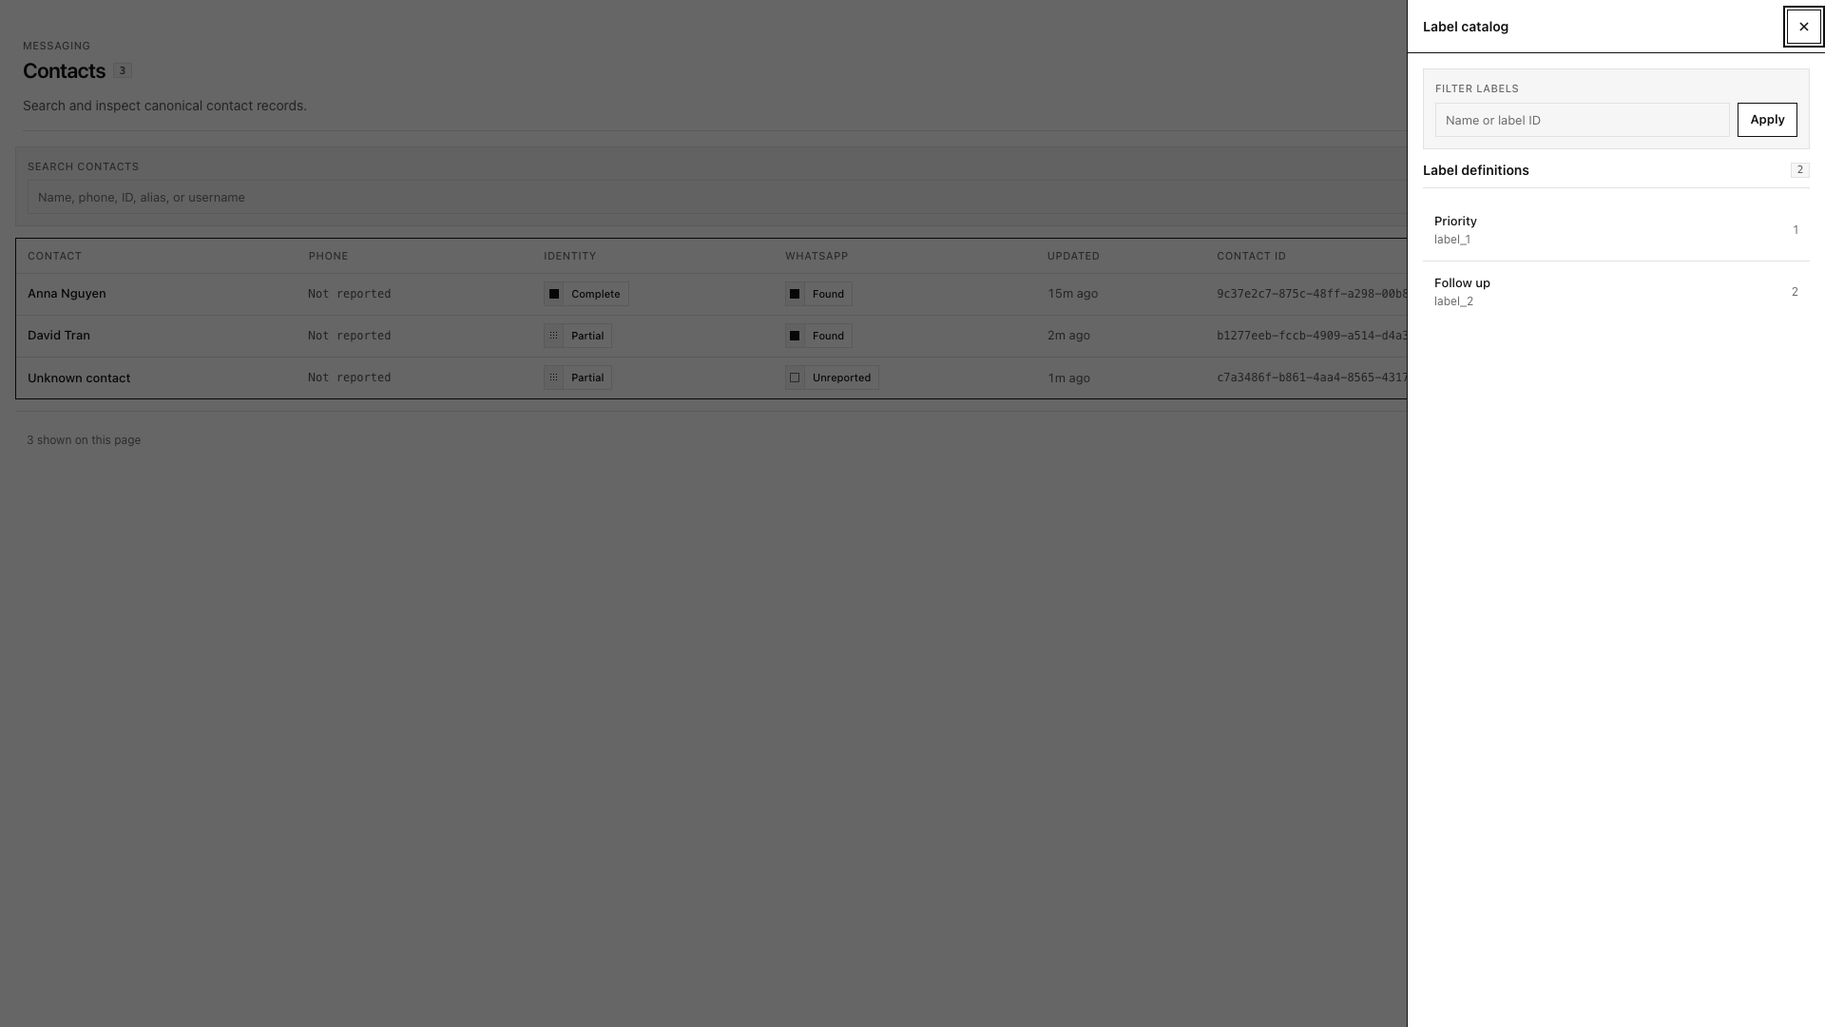
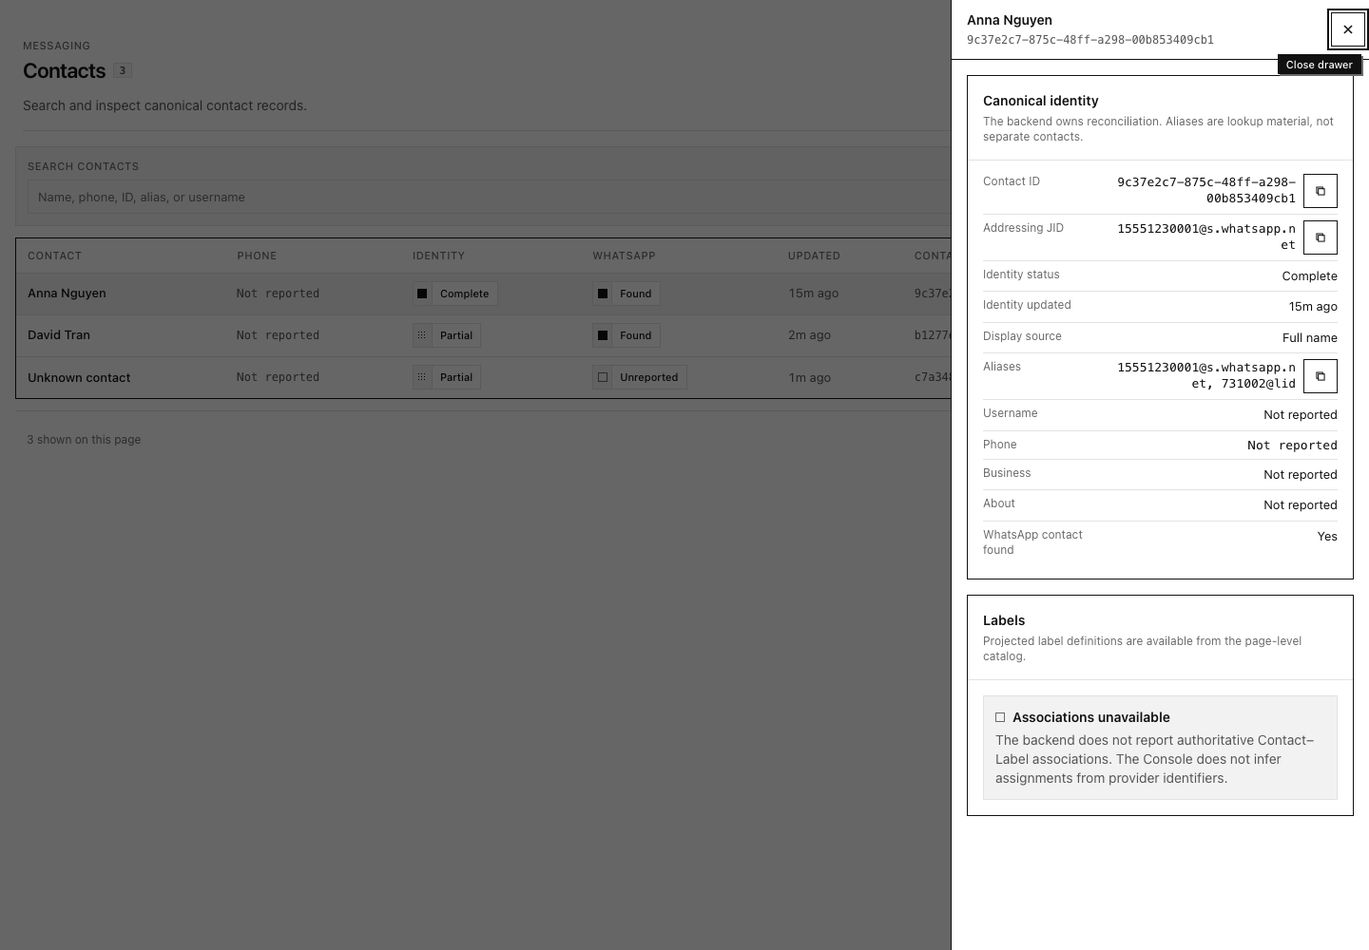
fix: normalize Contacts drawer behavior

diff --git a/src/features/directory/DirectoryPage.tsx b/src/features/directory/DirectoryPage.tsx
@@ -9,7 +9,7 @@ import { CountBadge, CursorPagination, Drawer, Field, FilterToolbar, IconButton,
 import { DirectoryDetails } from './Details';
 import { ContactTable, LabelList } from './DirectoryView';
 import { useContact, useContacts, useLabel, useLabels } from './hooks';
-import { contactsRouteState, updateContactsParams } from './route-state';
+import { contactRegistryLocation, contactsRouteState, labelCatalogLocation, updateContactsParams } from './route-state';
 
 function BlockedPage({ title, detail }: { title: string; detail: string }) {
   return <div className="grid gap-6 p-6 max-sm:p-4"><PageHeader eyebrow="Messaging" title="Contacts" description="Inspect canonical contacts and the projected label catalog." /><StateNotice kind="empty" title={title} detail={detail} /></div>;
@@ -23,6 +23,7 @@ export function ContactsPage() {
   const [searchParams, setSearchParams] = useSearchParams();
   const route = contactsRouteState(searchParams);
   const labelsOpen = route.panel === 'labels';
+  const selectedContactId = labelsOpen ? undefined : contactId;
   const [searchDraft, setSearchDraft] = useState(route.search);
   const [labelSearchDraft, setLabelSearchDraft] = useState(route.labelSearch);
   useEffect(() => setSearchDraft(route.search), [route.search]);
@@ -34,7 +35,7 @@ export function ContactsPage() {
   const labelsReady = instanceScope && cap('labels_projection');
   const canonicalIdentity = cap('canonical_contact_identity');
   const contacts = useContacts(route.search, route.cursor, contactsReady, canonicalIdentity);
-  const contact = useContact(contactId, contactsReady, canonicalIdentity);
+  const contact = useContact(selectedContactId, contactsReady, canonicalIdentity);
   const labels = useLabels(labelsOpen && labelsReady);
   const label = useLabel(labelsOpen ? route.labelId : undefined, labelsReady);
   const loadedLabels = labels.data?.resource ?? [];
@@ -53,16 +54,16 @@ export function ContactsPage() {
   const selectedLabelName = label.data?.resource.name ?? (label.data?.resource ? 'Unknown label' : undefined);
   const replaceParams = (next: URLSearchParams) => setSearchParams(next, { replace: true });
   const replaceContactList = (next: URLSearchParams) => navigate(withSearchParams('/contacts', next), { replace: true });
-  const selectContact = (id: string) => navigate(withSearchParams(`/contacts/${encodeURIComponent(id)}`, searchParams));
-  const closeContact = () => navigate(withSearchParams('/contacts', searchParams));
-  const openLabels = () => replaceParams(updateSearchParams(searchParams, { panel: 'labels' }));
-  const closeLabels = () => replaceParams(omitSearchParams(searchParams, ['panel', 'label', 'labelSearch']));
+  const selectContact = (id: string) => navigate(withSearchParams(`/contacts/${encodeURIComponent(id)}`, omitSearchParams(searchParams, ['panel', 'label', 'labelSearch'])));
+  const closeContact = () => navigate(contactRegistryLocation(searchParams));
+  const openLabels = () => navigate(labelCatalogLocation(searchParams), { replace: true });
+  const closeLabels = () => navigate(contactRegistryLocation(searchParams), { replace: true });
   const selectLabel = (id: string) => replaceParams(updateSearchParams(searchParams, { panel: 'labels', label: id }));
   const closeLabel = () => replaceParams(updateSearchParams(searchParams, { label: undefined }));
   const applySearch = () => replaceContactList(updateContactsParams(searchParams, { search: searchDraft.trim() }, ['cursor']));
   const applyLabelSearch = () => replaceParams(updateContactsParams(searchParams, { panel: 'labels', labelSearch: labelSearchDraft.trim(), label: undefined }));
   const refreshContacts = () => { if (contactsReady) void contacts.refetch(); };
-  const refreshContact = () => { if (contactsReady && contactId) void contact.refetch(); };
+  const refreshContact = () => { if (contactsReady && selectedContactId) void contact.refetch(); };
   const refreshPage = () => { refreshContacts(); refreshContact(); };
   const refreshLabels = () => { if (labelsReady) void labels.refetch(); if (labelsReady && route.labelId) void label.refetch(); };
   const contactsRefreshing = contacts.isFetching || contact.isFetching;
@@ -70,10 +71,14 @@ export function ContactsPage() {
 
   useEffect(() => {
     const returnedId = contact.data?.resource.id;
-    if (canonicalIdentity && contactId && returnedId && returnedId !== contactId) {
+    if (canonicalIdentity && selectedContactId && returnedId && returnedId !== selectedContactId) {
       navigate(withSearchParams(`/contacts/${encodeURIComponent(returnedId)}`, searchParams), { replace: true });
     }
-  }, [canonicalIdentity, contact.data?.resource.id, contactId, navigate, searchParams]);
+  }, [canonicalIdentity, contact.data?.resource.id, navigate, searchParams, selectedContactId]);
+
+  useEffect(() => {
+    if (labelsOpen && contactId) navigate(labelCatalogLocation(searchParams), { replace: true });
+  }, [contactId, labelsOpen, navigate, searchParams]);
 
   if (!instanceScope) return <BlockedPage title="Instance credential required" detail="Contacts requires an instance credential. Admin scope cannot read token-scoped projections, and no request was sent." />;
   if (capabilities.isPending) return <BlockedPage title="Discovering capabilities" detail="Discovering instance capabilities before enabling projection reads." />;
@@ -138,10 +143,10 @@ export function ContactsPage() {
         </div>
       </div>
       <Drawer
-        open={labelsOpen || Boolean(contactId)}
+        open={labelsOpen || Boolean(selectedContactId)}
         onClose={labelsOpen ? closeLabels : closeContact}
         title={labelsOpen ? route.labelId ? selectedLabelName ?? 'Label details' : 'Label catalog' : selectedName ?? 'Contact details'}
-        subtitle={labelsOpen ? route.labelId : contactId}
+        subtitle={labelsOpen ? route.labelId : selectedContactId}
       >
         {labelsOpen ? labelCatalog : !contactsSupported || (!contactsReady && !contact.data?.resource) ? <StateNotice kind="empty" title="Contact detail unavailable" detail="The cached directory remains visible, but this Contact cannot be read while contacts_projection is not advertised." /> : <DirectoryDetails contact={contact.data?.resource} meta={contact.data?.meta} error={contact.error} loading={contact.isPending} onRetry={refreshContact} />}
       </Drawer>

diff --git a/src/features/directory/Details.tsx b/src/features/directory/Details.tsx
@@ -9,10 +9,10 @@ export function DirectoryDetails({ contact, label, meta, error, loading, onRetry
   if (loading) return <StateNotice kind="loading" title="Loading details" />;
   if (error && !contact && !label) return <FailureNotice error={error} onRetry={onRetry} />;
   if (contact) return (
-    <div className="grid gap-4 p-4">
+    <div className="grid gap-4">
       {error ? <FailureNotice error={error} stale onRetry={onRetry} /> : null}
       <ProjectionStatus meta={meta} />
-      <Panel headingLevel={2} title={contact.identityStatus === 'legacy' ? 'Normalized identity' : 'Canonical identity'} description={contact.identityStatus === 'legacy' ? 'Compatibility projection fields; canonical reconciliation is not active for this instance.' : 'The backend owns reconciliation. Aliases are lookup material, not separate contacts.'} bodyPadding="compact-top">
+      <Panel headingLevel={3} title={contact.identityStatus === 'legacy' ? 'Normalized identity' : 'Canonical identity'} description={contact.identityStatus === 'legacy' ? 'Compatibility projection fields; canonical reconciliation is not active for this instance.' : 'The backend owns reconciliation. Aliases are lookup material, not separate contacts.'} bodyPadding="compact-top">
         <DescriptionList>
           <DescriptionItem label="Contact ID" mono><CopyValue value={contact.id} label="Contact ID" /></DescriptionItem>
           <DescriptionItem label="Addressing JID" mono>{contact.addressingJid ? <CopyValue value={contact.addressingJid} label="Addressing JID" /> : 'Not reported'}</DescriptionItem>
@@ -27,16 +27,16 @@ export function DirectoryDetails({ contact, label, meta, error, loading, onRetry
           <DescriptionItem label="WhatsApp contact found">{contact.found === undefined ? 'Not reported' : contact.found ? 'Yes' : 'No'}</DescriptionItem>
         </DescriptionList>
       </Panel>
-      <Panel headingLevel={2} title="Labels" description="Projected label definitions are available from the page-level catalog.">
+      <Panel headingLevel={3} title="Labels" description="Projected label definitions are available from the page-level catalog.">
         <StateNotice kind="empty" title="Associations unavailable" detail="The backend does not report authoritative Contact–Label associations. The Console does not infer assignments from provider identifiers." />
       </Panel>
     </div>
   );
   if (label) return (
-    <div className="grid gap-4 p-4">
+    <div className="grid gap-4">
       {error ? <FailureNotice error={error} stale onRetry={onRetry} /> : null}
       <ProjectionStatus meta={meta} />
-      <Panel headingLevel={2} title="Projected definition" description="Definitions are read-only; Console does not infer Conversation or Message assignments." bodyPadding="compact-top">
+      <Panel headingLevel={3} title="Projected definition" description="Definitions are read-only; Console does not infer Conversation or Message assignments." bodyPadding="compact-top">
         <DescriptionList>
           <DescriptionItem label="Label ID" mono><CopyValue value={label.id} label="Label ID" /></DescriptionItem>
           <DescriptionItem label="Name">{label.name ?? 'Not reported'}</DescriptionItem>
@@ -46,5 +46,5 @@ export function DirectoryDetails({ contact, label, meta, error, loading, onRetry
       </Panel>
     </div>
   );
-  return <div className="p-4"><StateNotice kind="empty" title="Not returned" detail="The selected projected resource was not returned." /></div>;
+  return <StateNotice kind="empty" title="Not returned" detail="The selected projected resource was not returned." />;
 }

diff --git a/src/app/PreviewDirectory.tsx b/src/app/PreviewDirectory.tsx
@@ -6,15 +6,20 @@ import { contactsFixture, labelsFixture } from './preview-fixtures';
 
 /** Dev-only: full-width Contacts registry with the projected Label catalog open. */
 export function PreviewDirectory() {
-  const [contactId, setContactId] = useState<string>();
+  const contactEvidence = new URLSearchParams(window.location.search).get('drawer') === 'contact';
+  const [contactId, setContactId] = useState<string | undefined>(() => contactEvidence ? contactsFixture[0]?.id : undefined);
   const [labelId, setLabelId] = useState<string>();
-  const [labelsOpen, setLabelsOpen] = useState(true);
+  const [labelsOpen, setLabelsOpen] = useState(!contactEvidence);
   const [search, setSearch] = useState('');
   const [labelSearch, setLabelSearch] = useState('');
   const contacts = useMemo(() => contactsFixture.filter((item) => !search || JSON.stringify(item).toLocaleLowerCase().includes(search.toLocaleLowerCase())), [search]);
   const labels = useMemo(() => labelsFixture.filter((item) => !labelSearch || JSON.stringify(item).toLocaleLowerCase().includes(labelSearch.toLocaleLowerCase())), [labelSearch]);
   const contact = contactsFixture.find((item) => item.id === contactId);
   const label = labelsFixture.find((item) => item.id === labelId);
+  const openLabels = () => {
+    setContactId(undefined);
+    setLabelsOpen(true);
+  };
   const closeDrawer = () => {
     if (labelsOpen) {
       setLabelsOpen(false);
@@ -32,7 +37,7 @@ export function PreviewDirectory() {
   );
   return (
     <main className="h-dvh overflow-hidden bg-bg">
-      <WorkspacePageFrame eyebrow="Messaging" title={<span className="inline-flex items-center gap-2">Contacts<CountBadge count={contactsFixture.length} /></span>} description="Search and inspect canonical contact records." secondaryActions={<><IconButton icon="tag" label="Open Label catalog" onClick={() => setLabelsOpen(true)} /><IconButton icon="refresh" label="Refresh contacts" /></>} compactTitle="Contacts" compactDescription="Canonical contact registry" compactActions={<><IconButton icon="tag" label="Open Labels" onClick={() => setLabelsOpen(true)} /><IconButton icon="refresh" label="Refresh contacts" /></>}>
+      <WorkspacePageFrame eyebrow="Messaging" title={<span className="inline-flex items-center gap-2">Contacts<CountBadge count={contactsFixture.length} /></span>} description="Search and inspect canonical contact records." secondaryActions={<><IconButton icon="tag" label="Open Label catalog" onClick={openLabels} /><IconButton icon="refresh" label="Refresh contacts" /></>} compactTitle="Contacts" compactDescription="Canonical contact registry" compactActions={<><IconButton icon="tag" label="Open Labels" onClick={openLabels} /><IconButton icon="refresh" label="Refresh contacts" /></>}>
         <div className="min-h-0 flex-1 overflow-y-auto p-4 max-sm:p-3"><div className="grid gap-3">
           <FilterToolbar as="form" className="border" onSubmit={(event) => event.preventDefault()}><Field label="Search contacts" className="min-w-48 flex-1">{(id) => <Input id={id} type="search" value={search} placeholder="Name, phone, ID, alias, or username" onChange={(event) => setSearch(event.target.value)} />}</Field><div className="flex items-end"><IconButton type="submit" icon="search" label="Apply contact search" /></div></FilterToolbar>
           <ContactTable items={contacts} selectedId={contactId} onSelect={(id) => { setLabelsOpen(false); setContactId(id); }} />

diff --git a/src/app/UiGallery.tsx b/src/app/UiGallery.tsx
@@ -620,11 +620,11 @@ export function UiGallery() {
               eyebrow="Messaging"
               title={<span className="inline-flex items-center gap-2">Contacts<CountBadge count={contactsFixture.length} /></span>}
               description="Inspect canonical contacts and consult projected label definitions."
-              secondaryActions={<><IconButton icon="tag" label="Open Label catalog" onClick={() => setDirectoryLabelsOpen(true)} /><IconButton icon="refresh" label="Refresh contacts" /></>}
+              secondaryActions={<><IconButton icon="tag" label="Open Label catalog" onClick={() => { setDirectorySelection(undefined); setDirectoryLabelsOpen(true); }} /><IconButton icon="refresh" label="Refresh contacts" /></>}
               compactTitle={directorySelection ? contactsFixture.find((item) => item.id === directorySelection)?.displayName ?? 'Contact details' : 'Contacts'}
               compactDescription={directorySelection ? 'Projected contact identity' : 'Canonical projected identities'}
               compactLeadingAction={directorySelection ? <IconButton icon="arrow-left" label="Back to contacts" onClick={() => setDirectorySelection(undefined)} /> : undefined}
-              compactActions={<><IconButton icon="tag" label="Open Labels" onClick={() => setDirectoryLabelsOpen(true)} /><IconButton icon="refresh" label="Refresh contacts" /></>}
+              compactActions={<><IconButton icon="tag" label="Open Labels" onClick={() => { setDirectorySelection(undefined); setDirectoryLabelsOpen(true); }} /><IconButton icon="refresh" label="Refresh contacts" /></>}
             >
               <div className="min-h-0 flex-1 overflow-y-auto p-4"><ContactTable items={contactsFixture} selectedId={directorySelection} onSelect={(id) => { setDirectoryLabelsOpen(false); setDirectorySelection(id); }} /></div>
               <Drawer open={directoryLabelsOpen || Boolean(directorySelection)} onClose={() => { if (directoryLabelsOpen) { setDirectoryLabelsOpen(false); setDirectoryLabelSelection(undefined); } else setDirectorySelection(undefined); }} title={directoryLabelsOpen ? labelsFixture.find((item) => item.id === directoryLabelSelection)?.name ?? 'Label catalog' : contactsFixture.find((item) => item.id === directorySelection)?.displayName ?? 'Contact details'}>

diff --git a/src/features/directory/Details.test.tsx b/src/features/directory/Details.test.tsx
@@ -1,0 +1,34 @@
+import { renderToStaticMarkup } from 'react-dom/server';
+import { describe, expect, it } from 'vitest';
+import type { ContactResource } from '@/api/contacts';
+import type { LabelResource } from '@/api/labels';
+import { DirectoryDetails } from './Details';
+
+const contact: ContactResource = {
+  resourceType: 'contact',
+  id: 'contact-1',
+  aliases: [],
+  identityStatus: 'complete',
+  displayName: 'Anna Nguyen',
+};
+
+const label: LabelResource = { resourceType: 'label', id: 'label-1', name: 'Priority' };
+
+describe('DirectoryDetails', () => {
+  it('uses the Drawer body inset once and nests Contact sections beneath the dialog heading', () => {
+    const html = renderToStaticMarkup(<DirectoryDetails contact={contact} loading={false} onRetry={() => {}} />);
+
+    expect(html).toContain('class="grid gap-4"');
+    expect(html).not.toContain('class="grid gap-4 p-4"');
+    expect(html).toContain('<h3 class="text-sm font-semibold text-fg">Canonical identity</h3>');
+    expect(html).toContain('<h3 class="text-sm font-semibold text-fg">Labels</h3>');
+  });
+
+  it('uses the same inset and heading hierarchy for Label detail', () => {
+    const html = renderToStaticMarkup(<DirectoryDetails label={label} loading={false} onRetry={() => {}} />);
+
+    expect(html).toContain('class="grid gap-4"');
+    expect(html).not.toContain('class="grid gap-4 p-4"');
+    expect(html).toContain('<h3 class="text-sm font-semibold text-fg">Projected definition</h3>');
+  });
+});

diff --git a/src/features/directory/route-state.test.ts b/src/features/directory/route-state.test.ts
@@ -1,5 +1,5 @@
 import { describe, expect, it } from 'vitest';
-import { contactsRouteState, updateContactsParams } from './route-state';
+import { contactRegistryLocation, contactsRouteState, labelCatalogLocation, updateContactsParams } from './route-state';
 
 describe('Contacts route state', () => {
   it('keeps Contact and Label catalog scopes independent', () => {
@@ -14,5 +14,13 @@ describe('Contacts route state', () => {
 
   it('resets cursor when search scope changes', () => {
     expect(updateContactsParams(new URLSearchParams('search=old&cursor=opaque%3A1&panel=labels'), { search: 'new' }, ['cursor']).toString()).toBe('search=new&panel=labels');
+  });
+
+  it('keeps Contact and Label drawers mutually exclusive while preserving registry scope', () => {
+    const contactLocation = new URLSearchParams('search=mai&cursor=opaque%3A1');
+    expect(labelCatalogLocation(contactLocation)).toBe('/contacts?search=mai&cursor=opaque%3A1&panel=labels');
+
+    const labelLocation = new URLSearchParams('search=mai&cursor=opaque%3A1&panel=labels&label=priority&labelSearch=vip');
+    expect(contactRegistryLocation(labelLocation)).toBe('/contacts?search=mai&cursor=opaque%3A1');
   });
 });

diff --git a/src/features/directory/route-state.ts b/src/features/directory/route-state.ts
@@ -1,4 +1,6 @@
-import { readOptionalSearchParam, readSearchText, updateSearchParams } from '@/lib/url-search-state';
+import { omitSearchParams, readOptionalSearchParam, readSearchText, updateSearchParams, withSearchParams } from '@/lib/url-search-state';
+
+const LABEL_PARAMS = ['panel', 'label', 'labelSearch'];
 
 export function contactsRouteState(searchParams: URLSearchParams) {
   return {
@@ -12,4 +14,12 @@ export function contactsRouteState(searchParams: URLSearchParams) {
 
 export function updateContactsParams(searchParams: URLSearchParams, updates: Record<string, string | undefined>, reset: string[] = []): URLSearchParams {
   return updateSearchParams(searchParams, updates, reset);
+}
+
+export function contactRegistryLocation(searchParams: URLSearchParams): string {
+  return withSearchParams('/contacts', omitSearchParams(searchParams, LABEL_PARAMS));
+}
+
+export function labelCatalogLocation(searchParams: URLSearchParams): string {
+  return withSearchParams('/contacts', updateSearchParams(searchParams, { panel: 'labels' }));
 }

diff --git a/src/features/directory/DirectoryPage.test.tsx b/src/features/directory/DirectoryPage.test.tsx
@@ -57,9 +57,10 @@ describe('ContactsPage', () => {
     expect(html).not.toContain('Label definitions');
   });
 
-  it('keeps Contacts active while the URL-backed Label catalog is open', () => {
+  it('keeps the Contact projection active without retaining a Contact detail selection while Labels are open', () => {
     const html = renderRoute('/contacts/contact-1?panel=labels');
     expect(useContacts).toHaveBeenCalledWith('', undefined, true, true);
+    expect(useContact).toHaveBeenCalledWith(undefined, true, true);
     expect(useLabels).toHaveBeenCalledWith(true);
     expect(html).toContain('>2</span>');
     expect(html).toContain('Filter labels');

diff --git a/docs/PANELS.md b/docs/PANELS.md
@@ -261,7 +261,9 @@ Contacts render as a full-width responsive registry table rather than the
 Conversation-style directory/detail split. Selecting a row opens URL-backed
 Contact detail in the shared Drawer; compact tables become labelled records.
 The Label catalog uses the same bounded Drawer as a mutually exclusive utility
-view, with list/detail navigation inside it. Compatibility `/directory/*` routes redirect to the canonical Contacts URL
+view, with list/detail navigation inside it. Opening the catalog clears the
+active Contact detail path, and closing it returns directly to the registry
+rather than revealing a second inspector. Compatibility `/directory/*` routes redirect to the canonical Contacts URL
 while preserving applicable search context. Label definitions remain read-only
 and Contact detail states that associations are unavailable because the public
 Contact and Conversation projections do not publish authoritative label

diff --git a/design/DESIGN.md b/design/DESIGN.md
@@ -228,7 +228,9 @@ for ≤11px labels. Numbers that align vertically use `tabular-nums`.
   cell. ≤640px becomes an 85dvh full-width bottom sheet. The body scrolls without
   moving the page. An optional contextual-action footer remains outside that
   scroll container, so the primary next action is visible without competing with
-  destructive actions at the end of long inspector content.
+  destructive actions at the end of long inspector content. The Drawer body owns
+  its 16px content inset; inspector content does not add a second outer inset.
+  Framed sections beneath the dialog's `h2` title use `h3` headings.
 - **ResponsiveInspector** — one shared inspector slot that measures its owning
   workspace rather than the browser viewport. At 1560px of available workspace
   width it docks as a non-modal 440px third column beside the 320px directory

diff --git a/design/evidence/README.md b/design/evidence/README.md
@@ -2,7 +2,8 @@
 
 Chrome DevTools evidence captured on 2026-08-06 from the development-only
 `/__preview/contacts` route using production components and deterministic
-fixtures.
+fixtures. Desktop uses `?drawer=contact`; mobile retains the default Label
+catalog fixture.
 
 ## Desktop — 1920 × 1080
 
@@ -10,9 +11,10 @@ fixtures.
 
 - Contacts use the full-width responsive registry table rather than the
   Conversation split composition.
-- The Label catalog is a closable modal Drawer and does not resize the registry.
+- Contact detail uses one 16px Drawer inset, with framed identity and association
+  sections nested beneath the dialog heading.
 - Contact and Label details replace one another in the bounded Drawer instead
-  of stacking overlays.
+  of stacking overlays; opening Labels clears Contact selection.
 
 ## Mobile — 390 × 844
 

diff --git a/docs/UI_GUIDE.md b/docs/UI_GUIDE.md
@@ -290,7 +290,8 @@ resource models, or rendered diagnostics.
   registry table, deliberately distinct from the Conversation split workspace.
   Selecting a row opens URL-backed Contact detail in the shared Drawer. The
   projected Label catalog is a mutually exclusive utility Drawer, not a peer
-  resource tab, and is fetched only while open. Contact
+  resource tab, and is fetched only while open. Opening it clears any active
+  Contact detail selection so closing it returns directly to the registry. Contact
   search/cursor/selection and Label catalog/filter/selection have independent
   URL-backed state. Contact detail preserves canonical/compatibility rollout
   semantics and explicitly reports that authoritative Contact–Label associations
